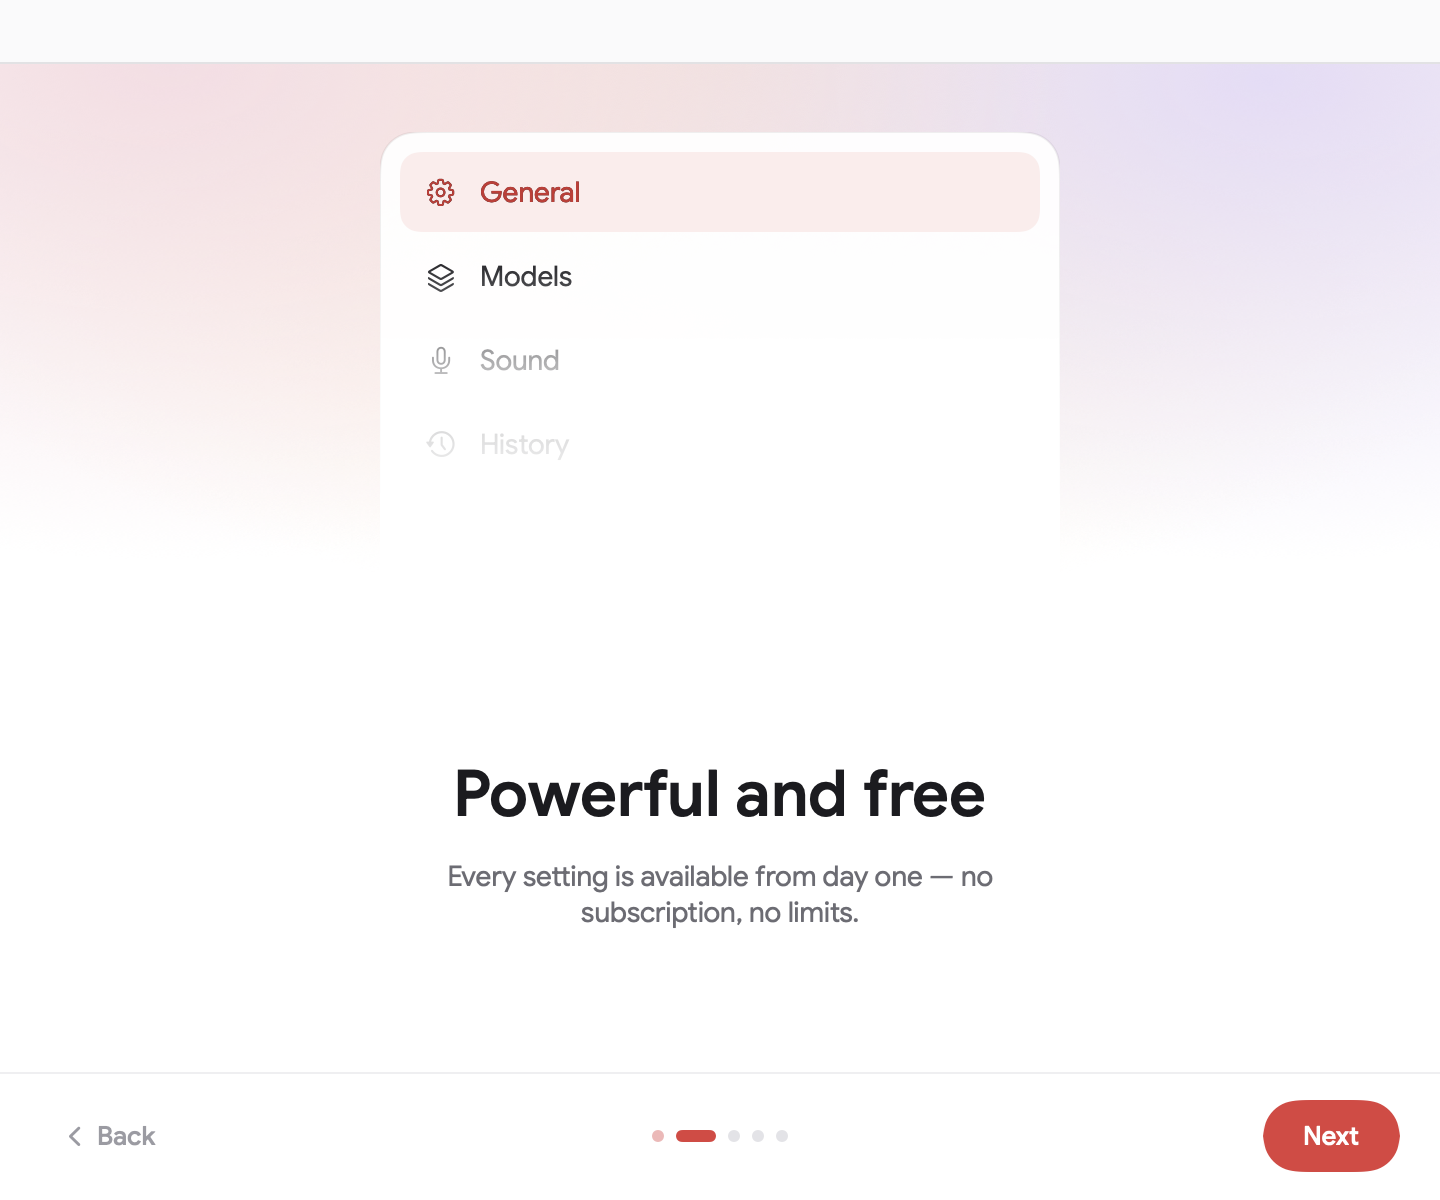
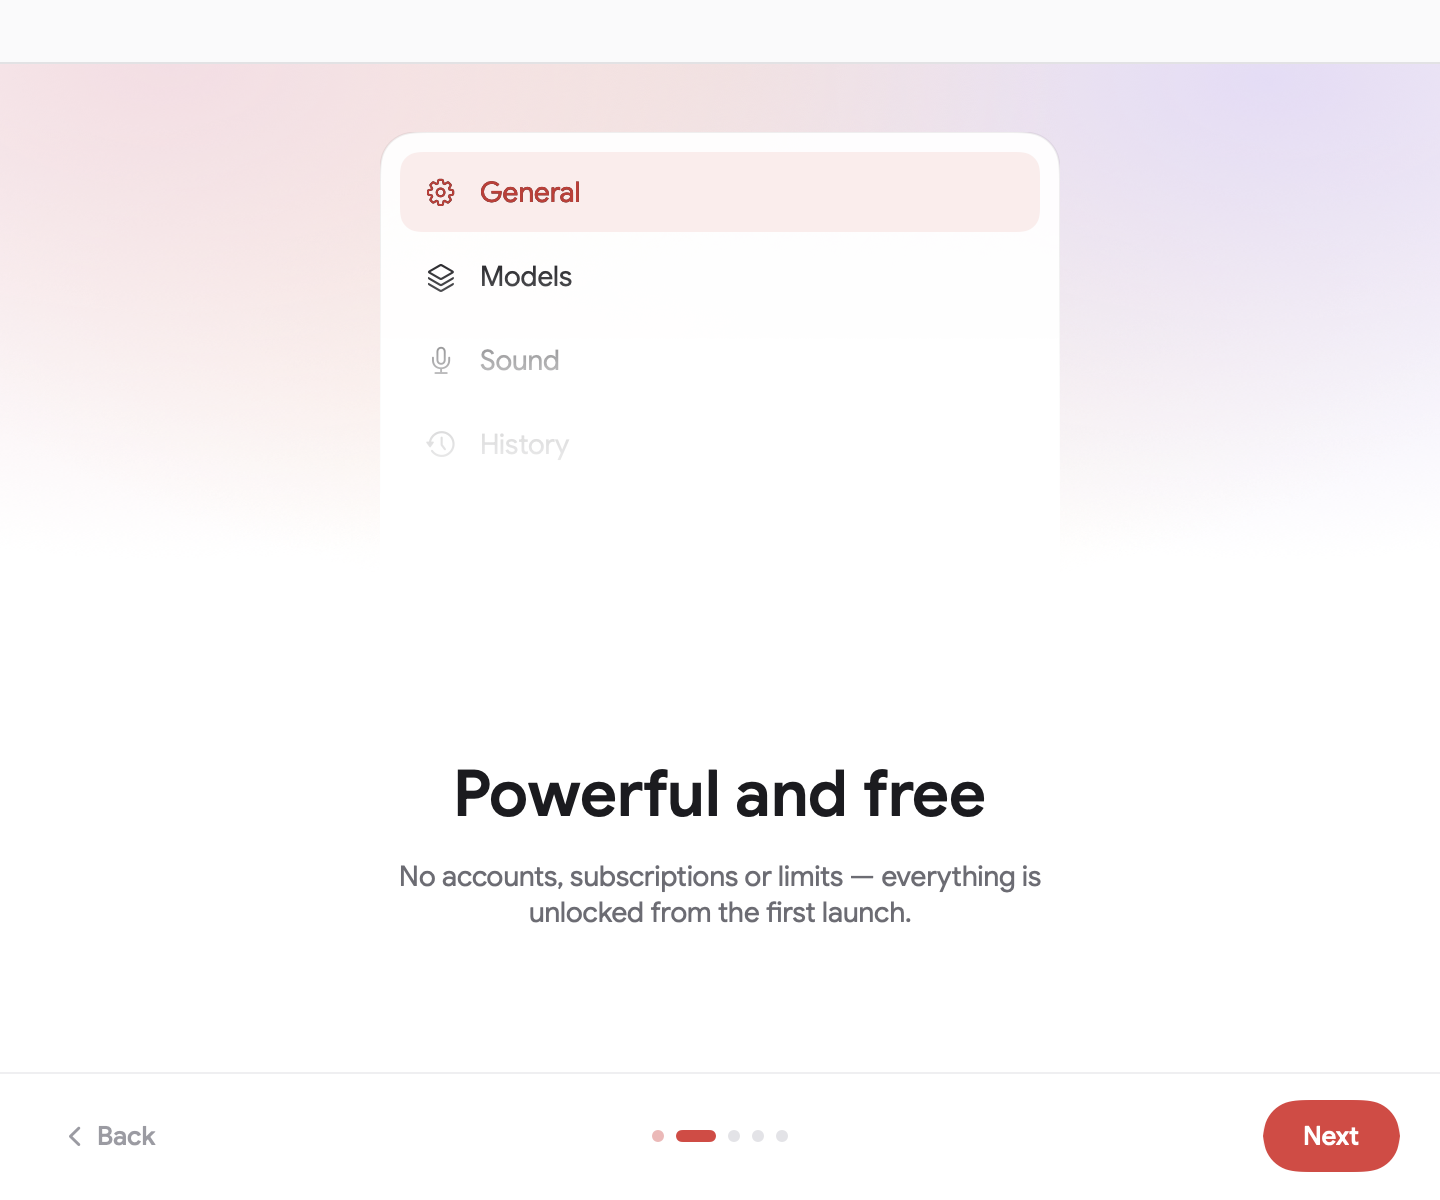
Onboarding: refresh copy on intro, features, models and final screens
Simpler, warmer wording agreed in review; English translations and
README screenshots regenerated to match.

Changed region(s): [[0.2812, 0.7092, 0.7188, 0.7708]]

diff --git a/v0ca/Core/Localization.swift b/v0ca/Core/Localization.swift
@@ -70,12 +70,12 @@ enum L10n {
         // Новый онбординг (окно-визард)
         "Настройка v0ca": "Set up v0ca",
         "Новый онбординг": "New onboarding",
-        "Локальная транскрибация голоса. Всё работает на вашем Mac — три шага, и можно диктовать.":
-            "Local voice transcription. Everything runs on your Mac — three steps and you can dictate.",
+        "Голос — в текст, в любом приложении. Всё распознаётся локально на вашем устройстве. Три шага — и можно говорить.":
+            "Voice to text, in any app. Everything is recognized locally on your device. Three steps — and you're talking.",
         "Начать настройку": "Get started",
         "Мощно и бесплатно": "Powerful and free",
-        "Все настройки открыты с первого дня — без подписки и лимитов.":
-            "Every setting is available from day one — no subscription, no limits.",
+        "Никаких аккаунтов, подписок и лимитов — всё открыто с первого запуска.":
+            "No accounts, subscriptions or limits — everything is unlocked from the first launch.",
         "Словарь": "Dictionary",
         "Шорткаты": "Shortcuts",
         "Назад": "Back",
@@ -97,8 +97,8 @@ enum L10n {
         "Мгновенные заметки на слабом железе": "Instant notes on modest hardware",
         "Шумные записи и несколько говорящих": "Noisy recordings and multiple speakers",
         "1 язык": "1 language",
-        "Скачайте локальную модель для распознавания речи — она работает на вашем устройстве.":
-            "Download a local speech recognition model — it runs on your device.",
+        "Модель распознаёт речь прямо на устройстве. Скачайте одну — этого достаточно, чтобы начать.":
+            "The model recognizes speech right on your device. Download one — that's all you need to get started.",
         "Показать все модели": "Show all models",
         "Скрыть остальные модели": "Hide other models",
         "Скачать позже": "Download later",
@@ -112,8 +112,8 @@ enum L10n {
             "You can change the shortcuts in the app at any time.",
         "Завершить": "Finish",
         "Всё готово": "All set",
-        "Можно пользоваться: нажмите установленную комбинацию в любом приложении — и начинайте говорить.":
-            "You're ready: press your combination in any app and start talking.",
+        "Нажмите установленную комбинацию и говорите.":
+            "Press your shortcut and speak.",
         "Спасибо, записал — присылай детали": "Thanks, noted — send over the details",
         "Готово": "Done",
 

diff --git a/v0ca/Features/Onboarding/OnboardingScreens.swift b/v0ca/Features/Onboarding/OnboardingScreens.swift
@@ -16,7 +16,7 @@ struct OnboardingIntroScreen: View {
                 VStack(spacing: 14) {
                     AnimatedLogo()
 
-                    Text(L("Локальная транскрибация голоса. Всё работает на вашем Mac — три шага, и можно диктовать."))
+                    Text(L("Голос — в текст, в любом приложении. Всё распознаётся локально на вашем устройстве. Три шага — и можно говорить."))
                         .font(Tokens.sans(14))
                         .foregroundStyle(Tokens.text2)
                         .multilineTextAlignment(.center)
@@ -107,7 +107,7 @@ struct OnboardingPowerFreeScreen: View {
                         Text(L("Мощно и бесплатно"))
                             .font(Tokens.sans(32, weight: .semibold))
                             .foregroundStyle(Tokens.text)
-                        Text(L("Все настройки открыты с первого дня — без подписки и лимитов."))
+                        Text(L("Никаких аккаунтов, подписок и лимитов — всё открыто с первого запуска."))
                             .font(Tokens.sans(14))
                             .foregroundStyle(Tokens.text2)
                             .multilineTextAlignment(.center)

diff --git a/v0ca/Features/Onboarding/OnboardingShortcutScreens.swift b/v0ca/Features/Onboarding/OnboardingShortcutScreens.swift
@@ -181,7 +181,7 @@ struct OnboardingFinalScreen: View {
                         Text(L("Всё готово"))
                             .font(Tokens.sans(32, weight: .semibold))
                             .foregroundStyle(Tokens.text)
-                        Text(L("Можно пользоваться: нажмите установленную комбинацию в любом приложении — и начинайте говорить."))
+                        Text(L("Нажмите установленную комбинацию и говорите."))
                             .font(Tokens.sans(14))
                             .foregroundStyle(Tokens.text2)
                             .multilineTextAlignment(.center)

diff --git a/v0ca/Features/Onboarding/OnboardingModelScreens.swift b/v0ca/Features/Onboarding/OnboardingModelScreens.swift
@@ -160,7 +160,7 @@ struct OnboardingModelsScreen: View {
                 headerGradient
                 ScrollView {
                     VStack(alignment: .leading, spacing: 0) {
-                        Text(L("Скачайте локальную модель для распознавания речи — она работает на вашем устройстве."))
+                        Text(L("Модель распознаёт речь прямо на устройстве. Скачайте одну — этого достаточно, чтобы начать."))
                             .font(Tokens.sans(13.5))
                             .foregroundStyle(Tokens.text2)
 
